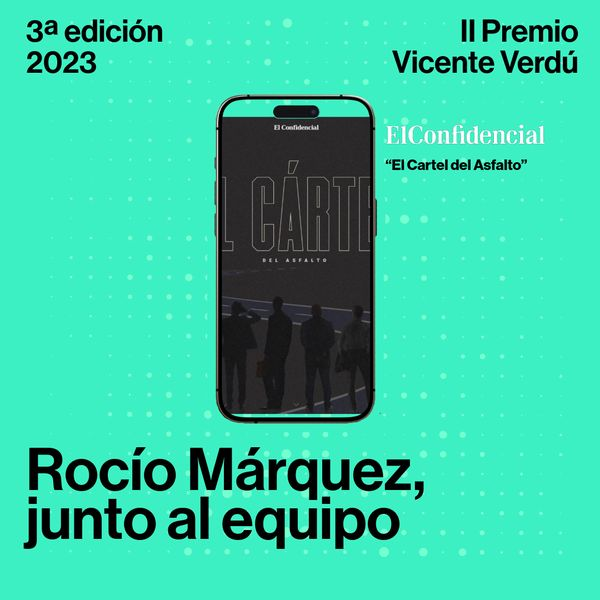
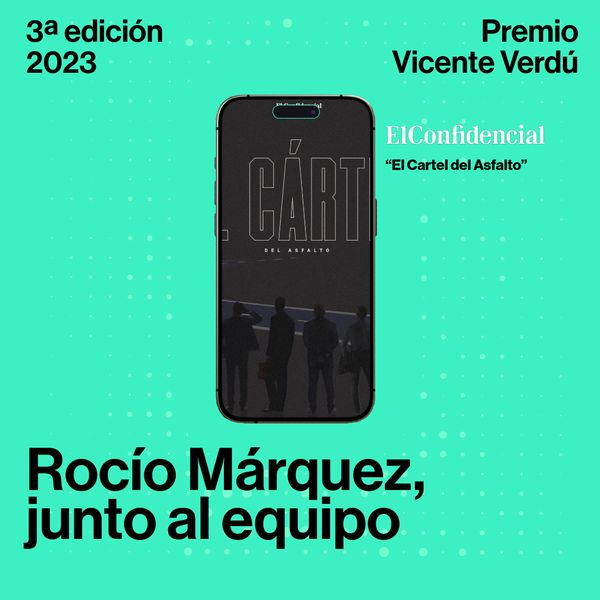
Premio Vicente Verdú: carteles actualizados sin numeral

diff --git a/docs/rediseno-avap-2026.md b/docs/rediseno-avap-2026.md
@@ -35,5 +35,5 @@ Recorrido de los cambios hechos entre el 26 y el 28 de octubre de 2026 en la ram
 
 - **Analytics:** desactivado; los IDs `UA-` de la web y de la revista no recogen datos desde 2023. Hace falta un ID `G-` de GA4.
 - Permisos de egresados antes de volver a publicar la página.
-- CV de los docentes (bloque `cv:` en `_profesorado/*.md`), LinkedIn del máster, «IBerperia», fotos de 74 ponentes, erratas en la numeración de los carteles del premio Verdú.
+- CV de los docentes (bloque `cv:` en `_profesorado/*.md`), LinkedIn del máster, «IBerperia», fotos de 74 ponentes.
 - Fusionar `rediseno-avap` en `master` (y la rama homónima de la revista) cuando se apruebe.

diff --git a/CLAUDE.md b/CLAUDE.md
@@ -42,5 +42,5 @@ LC_ALL=en_US.UTF-8 htmlproofer ./_site --disable-external --allow-hash-href --em
 ## Pendiente
 
 - Analytics desactivado: el ID `UA-32796571-1` (web) y `UA-38906933-1` (revista) no recogen datos desde 2023. Falta un ID `G-` de GA4 (`site.inc.analytics.google` en `_config.yml`).
-- Permisos de egresados; LinkedIn del máster; «IBerperia» en instituciones; erratas de numeración en los carteles del premio Verdú.
+- Permisos de egresados; LinkedIn del máster; «IBerperia» en instituciones.
 - Detalle en `docs/rediseno-avap-2026.md` y en `_mejora_avap/pendientes.md` (local, fuera de git).
